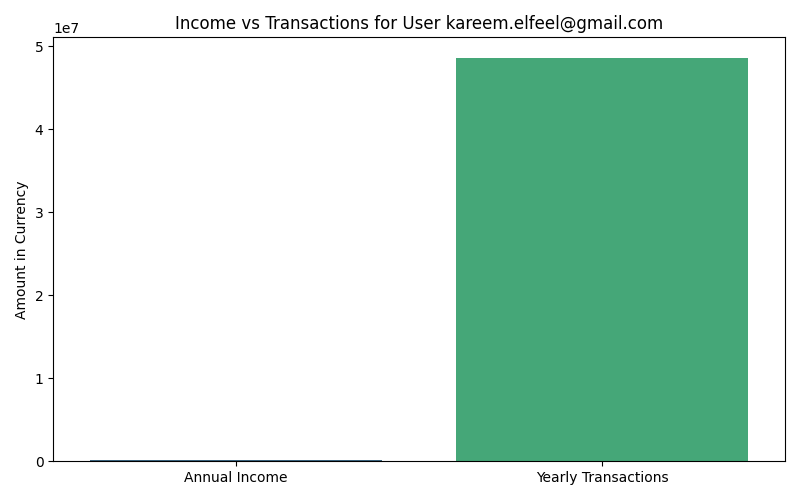
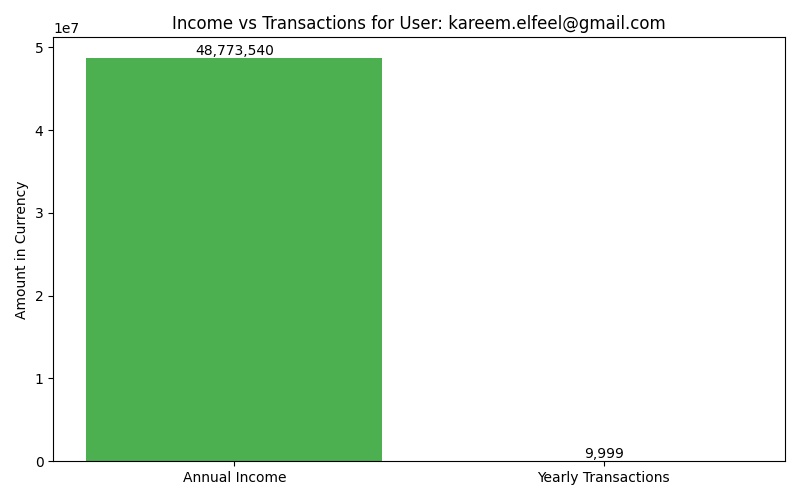
added a json file

diff --git a/AI_Hackathon/script.py b/AI_Hackathon/script.py
@@ -1,9 +1,7 @@
 import firebase_admin
 from firebase_admin import credentials, firestore
-import pandas as pd
-import matplotlib.pyplot as plt
-import seaborn as sns
 from datetime import datetime, timedelta
+import json
 
 # Initialize Firebase
 cred = credentials.Certificate("/home/amrkhaled/Desktop/servicefile1.json")
@@ -12,29 +10,41 @@ db = firestore.client()
 
 print("✅ Connected to Firebase!")
 
-
-# Function to get user's total annual income
+# Function to get user's total annual income (Fixed + Variable)
 def get_annual_income(user_email):
     fixed_income_ref = db.collection("fixed_income").where("user_email", "==", user_email)
-    docs = fixed_income_ref.stream()
+    fixed_income_docs = fixed_income_ref.stream()
 
-    for doc in docs:
+    monthly_salary_total = 0
+    yearly_bonus_total = 0
+
+    for doc in fixed_income_docs:
         data = doc.to_dict()
-        monthly_salary = data.get("monthly_salary", 0)
-        yearly_bonus = data.get("yearly_bonus", 0)
+        monthly_salary_total += data.get("monthly_salary", 0)
+        yearly_bonus_total += data.get("yearly_bonus", 0)
 
-        annual_income = (monthly_salary * 12) + yearly_bonus
-        return int(annual_income)
+    one_year_ago = datetime.now() - timedelta(days=365)
+    variable_income_ref = db.collection("variable_income").where("user_email", "==", user_email)
+    variable_income_docs = variable_income_ref.stream()
 
-    print(f"⚠ No fixed income data found for user: {user_email}")
-    return 0
+    variable_income_total = 0
+    for doc in variable_income_docs:
+        data = doc.to_dict()
+        created_at = data.get("created_at")
 
+        if created_at:
+            created_at_dt = datetime.fromisoformat(created_at)
+            if created_at_dt >= one_year_ago:
+                variable_income_total += data.get("amount", 0)
+
+    annual_income = (monthly_salary_total * 12) + yearly_bonus_total + variable_income_total
+    return int(annual_income)
 
 # Function to get total transactions amount in the last year
 def get_yearly_transactions(user_email):
     one_year_ago = datetime.now() - timedelta(days=365)
 
-    transactions_ref = db.collection("variable_income").where("user_email", "==", user_email)
+    transactions_ref = db.collection("transactions").where("user_email", "==", user_email)
     docs = transactions_ref.stream()
 
     total_amount = 0
@@ -48,25 +58,6 @@ def get_yearly_transactions(user_email):
                 total_amount += data.get("amount", 0)
 
     return int(total_amount)
-
-
-# Function to visualize income vs. transactions
-def plot_income_vs_transactions(user_email):
-    annual_income = get_annual_income(user_email)
-    yearly_transactions = get_yearly_transactions(user_email)
-
-    categories = ["Annual Income", "Yearly Transactions"]
-    values = [annual_income, yearly_transactions]
-
-    plt.figure(figsize=(8, 5))
-    sns.barplot(x=categories, y=values, palette="viridis")
-    plt.title(f"Income vs Transactions for User {user_email}")
-    plt.ylabel("Amount in Currency")
-    plt.tight_layout()
-    plt.savefig('income_vs_transactions.png')
-    plt.close()
-    print("✅ Income vs Transactions plot saved as 'income_vs_transactions.png'")
-
 
 # Function to get expenses by category for the last year
 def get_yearly_expenses_by_category(user_email):
@@ -91,48 +82,21 @@ def get_yearly_expenses_by_category(user_email):
     expenses['total_expenses'] = sum(expenses.values())
     return expenses
 
-
-# Function to visualize expenses by category
-def plot_expense_categories(user_email):
+# Function to generate JSON data for the frontend
+def generate_json_data(user_email):
+    annual_income = get_annual_income(user_email)
+    yearly_transactions = get_yearly_transactions(user_email)
     expenses = get_yearly_expenses_by_category(user_email)
 
-    print("Expenses Dictionary:", expenses)
+    data = {
+        "annual_income": annual_income,
+        "yearly_transactions": yearly_transactions,
+        "expenses": expenses
+    }
 
-    categories = ["Work", "Luxury", "Living", "Total"]
-    values = [
-        expenses['work_expenses'],
-        expenses['luxury_expenses'],
-        expenses['living_expenses'],
-        expenses['total_expenses']
-    ]
-
-    plt.figure(figsize=(10, 6))
-    sns.barplot(x=categories, y=values, palette="viridis")
-
-    for i, value in enumerate(values):
-        plt.text(i, value + 500, f'{value:,}', ha='center', fontsize=10)
-
-    plt.title(f"Yearly Expenses by Category for User {user_email}")
-    plt.ylabel("Amount in Currency")
-    plt.tight_layout()
-    plt.savefig('expense_categories.png')
-    plt.close()
-    print("✅ Expense categories plot saved as 'expense_categories.png'")
-
+    return json.dumps(data, indent=4)
 
 # Example usage
 user_email = "kareem.elfeel@gmail.com"
-annual_income = get_annual_income(user_email)
-print("Annual Income:", annual_income)
-
-# Display the income vs transactions visualization
-plot_income_vs_transactions(user_email)
-
-# Get and display expense categories
-expenses = get_yearly_expenses_by_category(user_email)
-print("\nYearly Expenses:")
-for category, amount in expenses.items():
-    print(f"{category.replace('_', ' ').title()}: {amount}")
-
-# Display the expense categories visualization
-plot_expense_categories(user_email)
+json_data = generate_json_data(user_email)
+print(json_data)

diff --git a/AI_Hackathon/views.py b/AI_Hackathon/views.py
@@ -16,7 +16,7 @@ from django.utils.decorators import method_decorator
 from firebase_admin import firestore
 import requests
 import json
-
+from datetime import datetime, timedelta
 
 db = firestore.client()
 
@@ -115,10 +115,99 @@ class AddTransactionView(View):
 # Class-based view to fetch financial data as JSON
 class FinancialDataView(View):
     def get(self, request):
-        users_ref = db.collection('testCollection')
-        docs = users_ref.stream()
-        data = {doc.id: doc.to_dict() for doc in docs}
-        return JsonResponse(data)
+        user_email = request.GET.get('user_email')  # Get user_email from query parameters
+
+        if not user_email:
+            return JsonResponse({"error": "user_email is required"}, status=400)
+
+        try:
+            # Fetch annual income
+            def get_annual_income(user_email):
+                fixed_income_ref = db.collection("fixed_income").where("user_email", "==", user_email)
+                fixed_income_docs = fixed_income_ref.stream()
+
+                monthly_salary_total = 0
+                yearly_bonus_total = 0
+
+                for doc in fixed_income_docs:
+                    data = doc.to_dict()
+                    monthly_salary_total += data.get("monthly_salary", 0)
+                    yearly_bonus_total += data.get("yearly_bonus", 0)
+
+                one_year_ago = datetime.now() - timedelta(days=365)
+                variable_income_ref = db.collection("variable_income").where("user_email", "==", user_email)
+                variable_income_docs = variable_income_ref.stream()
+
+                variable_income_total = 0
+                for doc in variable_income_docs:
+                    data = doc.to_dict()
+                    created_at = data.get("created_at")
+
+                    if created_at:
+                        created_at_dt = datetime.fromisoformat(created_at)
+                        if created_at_dt >= one_year_ago:
+                            variable_income_total += data.get("amount", 0)
+
+                annual_income = (monthly_salary_total * 12) + yearly_bonus_total + variable_income_total
+                return int(annual_income)
+
+            # Fetch yearly transactions
+            def get_yearly_transactions(user_email):
+                one_year_ago = datetime.now() - timedelta(days=365)
+
+                transactions_ref = db.collection("transactions").where("user_email", "==", user_email)
+                docs = transactions_ref.stream()
+
+                total_amount = 0
+                for doc in docs:
+                    data = doc.to_dict()
+                    created_at = data.get("created_at")
+
+                    if created_at:
+                        created_at_dt = datetime.fromisoformat(created_at)
+                        if created_at_dt >= one_year_ago:
+                            total_amount += data.get("amount", 0)
+
+                return int(total_amount)
+
+            # Fetch yearly expenses by category
+            def get_yearly_expenses_by_category(user_email):
+                one_year_ago = datetime.now() - timedelta(days=365)
+
+                categories = ['work_expenses', 'luxury_expenses', 'living_expenses']
+                expenses = {category: 0 for category in categories}
+
+                for category in categories:
+                    expenses_ref = db.collection(category).where("user_email", "==", user_email)
+                    docs = expenses_ref.stream()
+
+                    for doc in docs:
+                        data = doc.to_dict()
+                        created_at = data.get("transaction_date")
+
+                        if created_at:
+                            created_at_dt = datetime.fromisoformat(created_at)
+                            if created_at_dt >= one_year_ago:
+                                expenses[category] += data.get("amount", 0)
+
+                expenses['total_expenses'] = sum(expenses.values())
+                return expenses
+
+            # Generate JSON data
+            annual_income = get_annual_income(user_email)
+            yearly_transactions = get_yearly_transactions(user_email)
+            expenses = get_yearly_expenses_by_category(user_email)
+
+            data = {
+                "annual_income": annual_income,
+                "yearly_transactions": yearly_transactions,
+                "expenses": expenses
+            }
+
+            return JsonResponse(data, safe=False)
+
+        except Exception as e:
+            return JsonResponse({"error": str(e)}, status=500)
 
 
 # Class-based view to display data on the frontend

diff --git a/AI_Hackathon/urls.py b/AI_Hackathon/urls.py
@@ -9,6 +9,7 @@ from .views import HomeView, AddUserView, AddTransactionView, FinancialDataView,
     AddLivingExpenseView, FinancialOperationsView
 from .views import LinkedDataView
 from .views import ChatbotAPI
+from .views import get_financial_data
 
 urlpatterns = [
     path('admin/', admin.site.urls),
@@ -17,7 +18,7 @@ urlpatterns = [
     path('add-transaction/', AddTransactionView.as_view(), name='add_transaction'),
     path('api/financial-data/', FinancialDataView.as_view(), name='financial_data'),
     path('display-data/', DisplayDataView.as_view(), name='display_data'),
-
+    path('financial-data/', FinancialDataView.as_view(), name='financial_data'),
     # path("api/", include("llm_chatbot.urls")),
     # path('ml/', include('ml_model.urls')),
     # path("chat/", " chat_with_palm"),
@@ -25,6 +26,7 @@ urlpatterns = [
     # path("api/", include("llm_chatbot.urls")),
     # path('ml/', include('ml_model.urls')),
     path('add-employee/', AddEmployeeView.as_view(), name='add_employee'),
+    path('financial-data/', get_financial_data, name='financial_data'),
 
     path('linked-data/', LinkedDataView.as_view(), name='linked_data'),
     path('link-users/', LinkUsersView.as_view(), name='link_users'),
